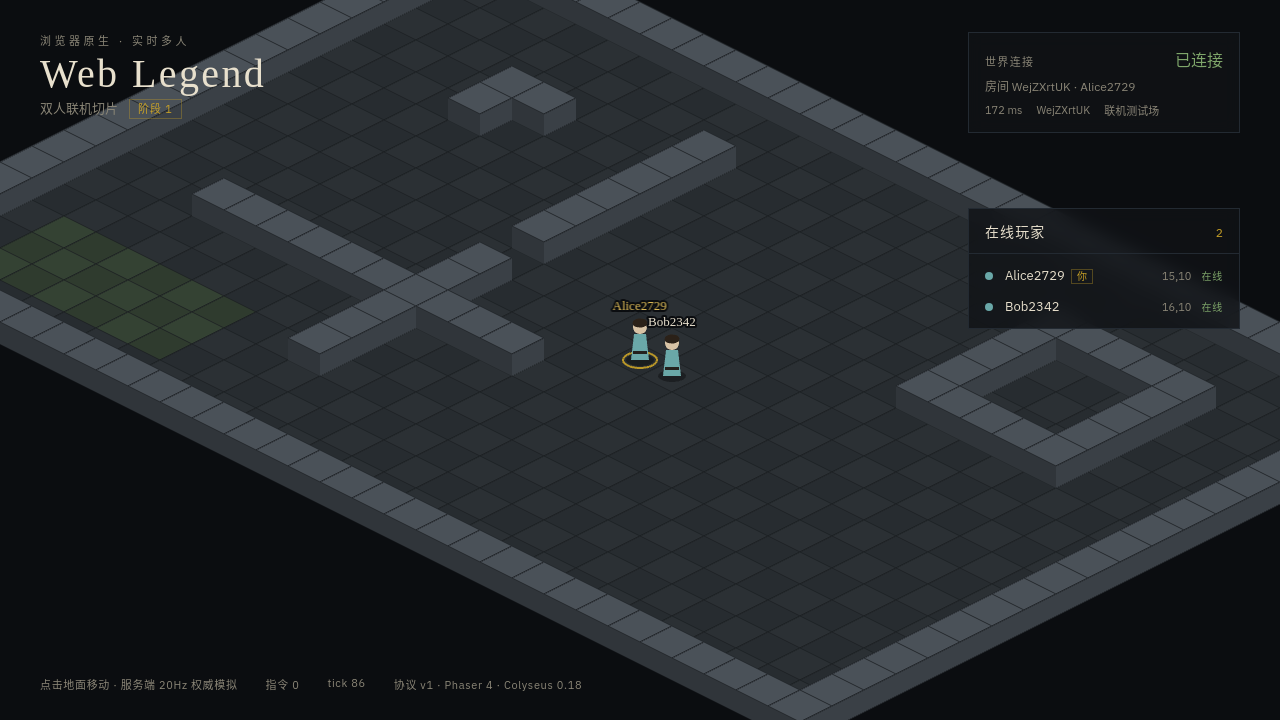
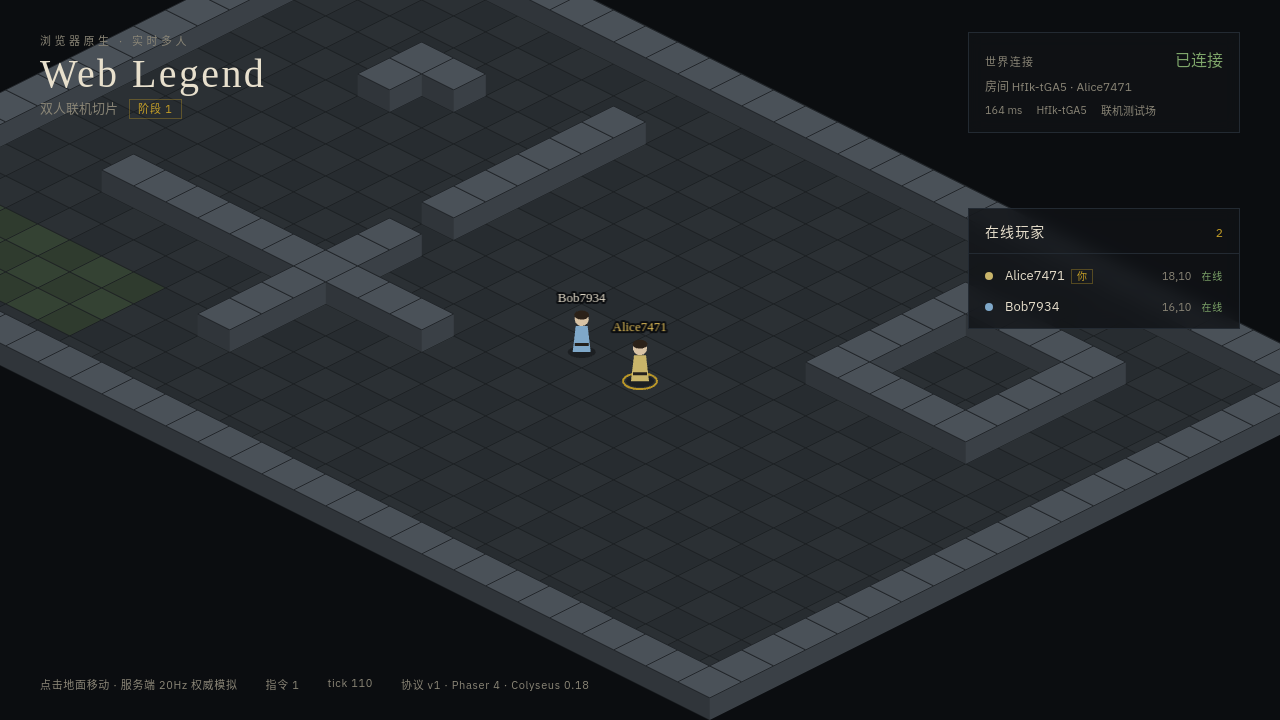
fix(phase-1): reset the command sequence when a client reconnects
A refreshed browser starts a new client at clientSequence 0 while the room
kept the pre-refresh sequence, so the first move after reconnection was
rejected as stale. Reset the per-session sequence and idempotency window on
reconnect, cover it in the room integration test, and make the refresh E2E
move after reconnecting.

diff --git a/apps/game-server/test/world.integration.test.ts b/apps/game-server/test/world.integration.test.ts
@@ -423,6 +423,23 @@ describe('world_map room', () => {
     room.reconnection.minDelay = 100;
     room.reconnection.maxDelay = 300;
 
+    const beforeDrop = waitForMessage<CommandAck>(room, 'command.ack', (body) =>
+      commandAckSchema.parse(body),
+    );
+    const beforeTile = playerTile(room, playerId);
+    expect(beforeTile).toBeDefined();
+    if (beforeTile === undefined) {
+      return;
+    }
+    room.send('move.to', {
+      protocolVersion: PROTOCOL_VERSION,
+      commandId: randomUUID(),
+      clientSequence: 0,
+      targetTileX: beforeTile.x + 1,
+      targetTileY: beforeTile.y,
+    });
+    await beforeDrop;
+
     const reconnected = new Promise<void>((resolve, reject) => {
       const timer = setTimeout(() => reject(new Error('Timed out waiting for reconnect')), 10_000);
       room.onReconnect.once(() => {
@@ -442,6 +459,7 @@ describe('world_map room', () => {
     );
     expect(playerCount(room)).toBe(1);
 
+    // A fresh page after reconnection starts its sequence at 0 again.
     const ack = waitForMessage<CommandAck>(room, 'command.ack', (body) =>
       commandAckSchema.parse(body),
     );
@@ -457,7 +475,9 @@ describe('world_map room', () => {
       targetTileX: tile.x + 1,
       targetTileY: tile.y,
     });
-    expect((await ack).path.length).toBeGreaterThan(0);
+    const replayed = await ack;
+    expect(replayed.deduplicated).toBe(false);
+    expect(replayed.path.length).toBeGreaterThan(0);
   });
 
   it('removes the player after the reconnect grace period expires', async () => {

diff --git a/tests/e2e/multiplayer.spec.ts b/tests/e2e/multiplayer.spec.ts
@@ -240,9 +240,20 @@ test('a page refresh reconnects to the living room without duplicating the playe
   );
   await expectPlayers(alice.page, 2);
   await expectPlayers(bob.page, 2);
-  await expect(
-    bob.page.locator(`[data-testid="player-row"][data-name="${aliceName}"]`),
-  ).toHaveCount(1);
+  const bobSeesAlice = bob.page.locator(`[data-testid="player-row"][data-name="${aliceName}"]`);
+  await expect(bobSeesAlice).toHaveCount(1);
+
+  // The refreshed client restarts its command sequence at zero; the first
+  // move after reconnection must still be accepted by the server.
+  const aliceSelf = alice.page.locator('[data-testid="player-row"][data-self="true"]');
+  const startTileX = Number(await aliceSelf.getAttribute('data-tile-x'));
+  const target = { x: startTileX >= 18 ? 14 : 18, y: 10 };
+  const point = await screenPointForTile(alice.page, target.x, target.y);
+  await alice.page.mouse.click(point.x, point.y);
+  await expect(bobSeesAlice).toHaveAttribute('data-tile-x', String(target.x), {
+    timeout: 5_000,
+  });
+  await expect(alice.page.getByTestId('command-count')).toHaveText('指令 1');
 
   await alice.page.screenshot({ path: join(ARTIFACT_DIR, 'after-refresh.png') });
 });

diff --git a/apps/game-server/src/rooms/worldMapRoom.ts b/apps/game-server/src/rooms/worldMapRoom.ts
@@ -228,6 +228,10 @@ export class WorldMapRoom extends Room<{ state: WorldStateInstance }> {
     if (session === undefined) {
       return;
     }
+    // A refreshed browser starts a fresh client with sequence 0; accepting its
+    // commands again must not depend on the pre-refresh sequence counter.
+    session.lastSequence = -1;
+    session.recentAcks.clear();
     this.setConnected(session.playerId, true);
     this.options.logger.info(
       { roomId: this.roomId, playerId: session.playerId },
